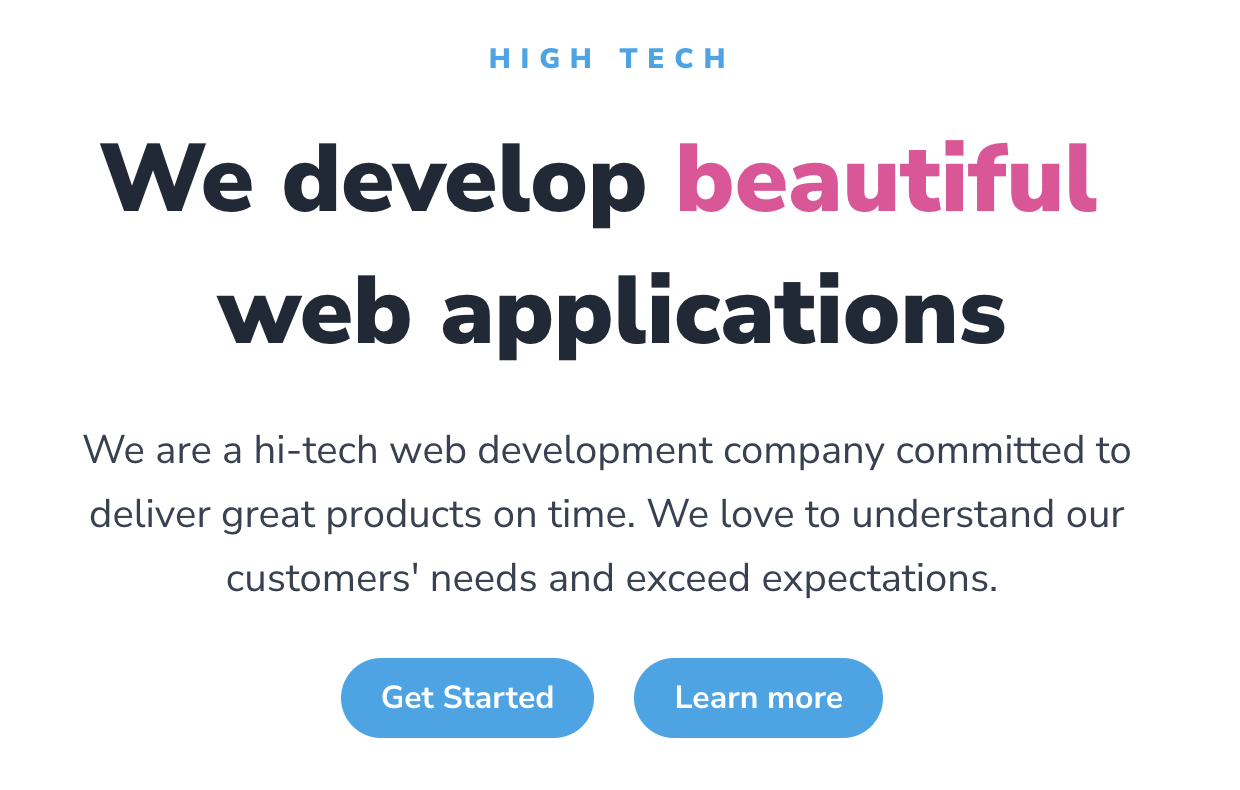
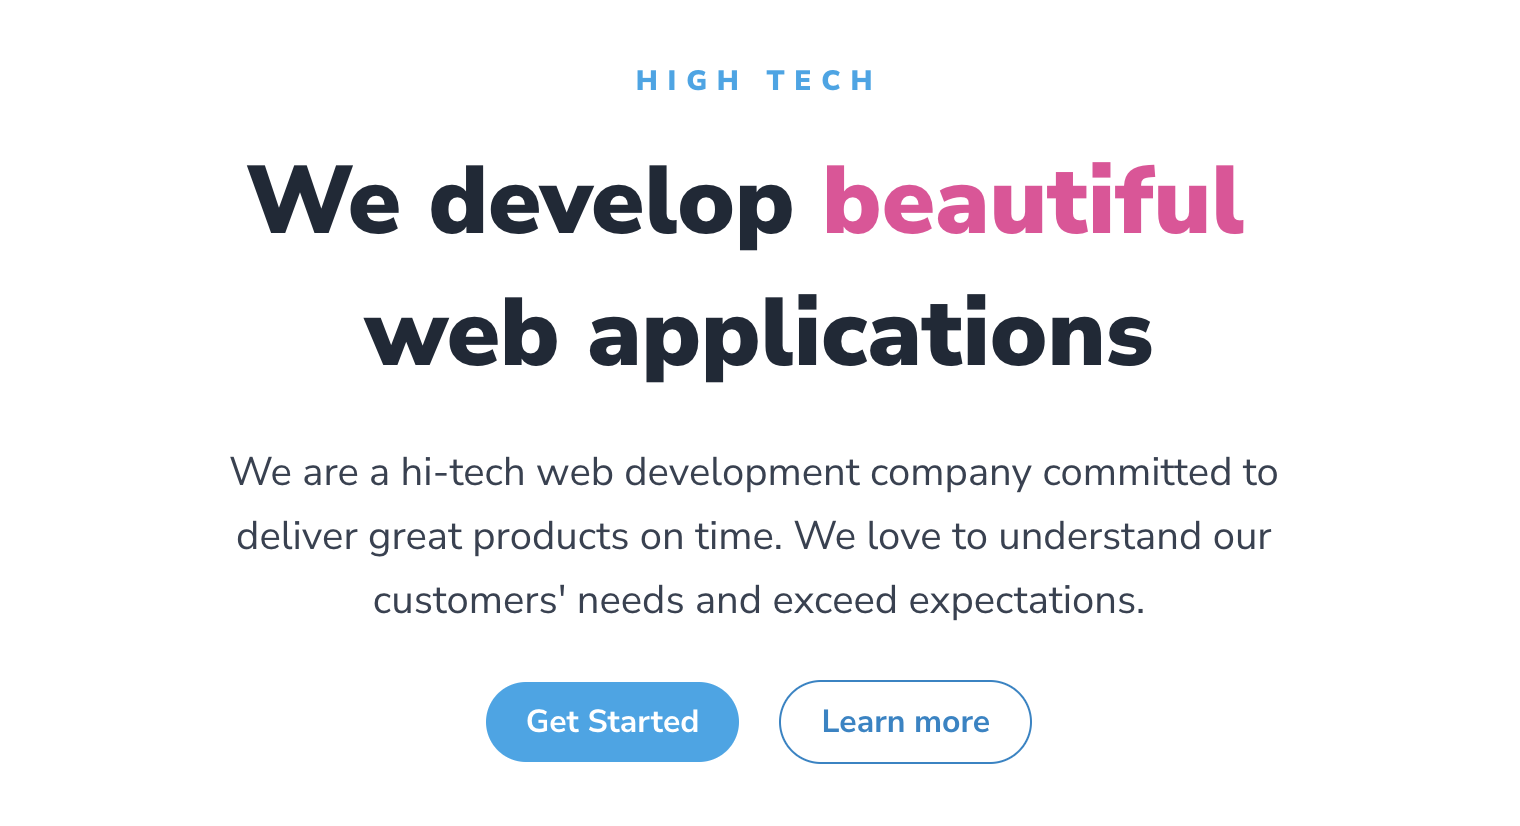
Added some stories.

diff --git a/react-bricks/bricks/react-bricks-ui/heroSections/Hero Unit/HeroUnit.tsx b/react-bricks/bricks/react-bricks-ui/heroSections/Hero Unit/HeroUnit.tsx
@@ -10,7 +10,12 @@ import {
   paddingBordersSideGroup,
 } from '../../LayoutSideProps'
 import blockNames from '../../blockNames'
-import { buttonColors, gradients, highlightTextColors, textColors } from '../../colors'
+import {
+  buttonColors,
+  gradients,
+  highlightTextColors,
+  textColors,
+} from '../../colors'
 import Container from '../../shared/components/Container'
 import Section from '../../shared/components/Section'
 
@@ -35,7 +40,9 @@ const HeroUnit: types.Brick<HeroUnitProps> = ({
   const titleColor = textColors.GRAY_800
   const textColor = textColors.GRAY_700
   const titleStyle =
-    textGradient !== gradients.NONE.value ? { WebkitTextFillColor: 'transparent' } : {}
+    textGradient !== gradients.NONE.value
+      ? { WebkitTextFillColor: 'transparent' }
+      : {}
 
   return (
     <Section
@@ -53,7 +60,10 @@ const HeroUnit: types.Brick<HeroUnitProps> = ({
           />
 
           <div
-            className={classNames(titleColor, gradients[textGradient]?.className)}
+            className={classNames(
+              titleColor,
+              gradients[textGradient]?.className
+            )}
             style={titleStyle}
           >
             <RichText
@@ -92,7 +102,10 @@ const HeroUnit: types.Brick<HeroUnitProps> = ({
             )}
             placeholder="Type a text..."
             propName="text"
-            allowedFeatures={[types.RichTextFeatures.Bold, types.RichTextFeatures.Link]}
+            allowedFeatures={[
+              types.RichTextFeatures.Bold,
+              types.RichTextFeatures.Link,
+            ]}
           />
           <Repeater
             propName="buttons"
@@ -126,20 +139,20 @@ HeroUnit.schema = {
     highlightTextColor: highlightTextColors.PINK.value,
     title: [
       {
-        type: "paragraph",
+        type: 'paragraph',
         children: [
           {
-            text: "We develop "
+            text: 'We develop ',
           },
           {
-            text: "beautiful",
-            highlight: true
+            text: 'beautiful',
+            highlight: true,
           },
           {
-            text: " web applications"
-          }
-        ]
-      }
+            text: ' web applications',
+          },
+        ],
+      },
     ],
     text: "We are a hi-tech web development company committed to deliver great products on time. We love to understand our customers' needs and exceed expectations.",
     badge: [
@@ -150,19 +163,21 @@ HeroUnit.schema = {
     ],
     buttons: [
       {
+        type: 'link',
         text: 'Get Started',
         href: '',
         isTargetBlank: false,
         buttonColor: buttonColors.SKY.value,
-        type: 'solid',
+        variant: 'solid',
         padding: 'normal',
       },
       {
+        type: 'link',
         text: 'Learn more',
         href: '',
         isTargetBlank: false,
         buttonColor: buttonColors.SKY.value,
-        type: 'outline',
+        variant: 'outline',
         padding: 'normal',
       },
     ],
@@ -206,6 +221,61 @@ HeroUnit.schema = {
     },
     backgroundWithImageBgSideGroup,
     paddingBordersSideGroup,
+  ],
+  stories: [
+    {
+      id: 'gradient-hero-unit',
+      name: 'Gradient Hero Unit',
+      previewImageUrl: `/bricks-preview-images/gradient-hero-unit.png`,
+      showAsBrick: true,
+      props: {
+        ...sectionDefaults,
+        size: 'large',
+        paddingTop: '12',
+        paddingBottom: '12',
+        textGradient: gradients.DAWN.value,
+        highlightTextColor: highlightTextColors.PINK.value,
+        badge: [],
+        title: "Let's make content editing fun, again!",
+        text: 'Gray forms are a thing of the past. Let your editors enjoy visual editing over your React components!',
+        buttons: [
+          {
+            type: 'link',
+            text: 'Start now!',
+            href: '',
+            isTargetBlank: false,
+            buttonColor: buttonColors.VIOLET.value,
+            variant: 'solid',
+            padding: 'normal',
+          },
+          {
+            type: 'link',
+            text: 'Watch the video',
+            href: '',
+            isTargetBlank: false,
+            buttonColor: buttonColors.VIOLET.value,
+            variant: 'outline',
+            padding: 'normal',
+          },
+        ],
+        backgroundImage: {
+          fallbackSrc:
+            'https://images.reactbricks.com/original/b438575d-f0e2-4f5d-94a7-bb30fb238962.png',
+          fallbackSrcSet:
+            'https://images.reactbricks.com/src_set/b438575d-f0e2-4f5d-94a7-bb30fb238962-1600.png 1600w,\nhttps://images.reactbricks.com/src_set/b438575d-f0e2-4f5d-94a7-bb30fb238962-1200.png 1200w,\nhttps://images.reactbricks.com/src_set/b438575d-f0e2-4f5d-94a7-bb30fb238962-800.png 800w,\nhttps://images.reactbricks.com/src_set/b438575d-f0e2-4f5d-94a7-bb30fb238962-400.png 400w,\nhttps://images.reactbricks.com/src_set/b438575d-f0e2-4f5d-94a7-bb30fb238962-200.png 200w',
+          fallbackType: 'image/png',
+          src: 'https://images.reactbricks.com/original/b438575d-f0e2-4f5d-94a7-bb30fb238962.webp',
+          placeholderSrc:
+            'https://images.reactbricks.com/placeholder/b438575d-f0e2-4f5d-94a7-bb30fb238962.jpg',
+          srcSet:
+            'https://images.reactbricks.com/src_set/b438575d-f0e2-4f5d-94a7-bb30fb238962-1600.webp 1600w,\nhttps://images.reactbricks.com/src_set/b438575d-f0e2-4f5d-94a7-bb30fb238962-1200.webp 1200w,\nhttps://images.reactbricks.com/src_set/b438575d-f0e2-4f5d-94a7-bb30fb238962-800.webp 800w,\nhttps://images.reactbricks.com/src_set/b438575d-f0e2-4f5d-94a7-bb30fb238962-400.webp 400w,\nhttps://images.reactbricks.com/src_set/b438575d-f0e2-4f5d-94a7-bb30fb238962-200.webp 200w',
+          width: 2000,
+          height: 1000,
+          alt: 'backgroundImage',
+          seoName: '',
+        },
+      },
+    },
   ],
 }
 

diff --git a/react-bricks/bricks/react-bricks-ui/layout/Header.tsx b/react-bricks/bricks/react-bricks-ui/layout/Header.tsx
@@ -14,6 +14,7 @@ import {
   backgroundColorsEditProps,
   borderBottomEditProp,
   LayoutProps,
+  sectionDefaults,
 } from '../LayoutSideProps'
 import Section from '../shared/components/Section'
 import useOnClickOutside from './useClickOutside'
@@ -188,6 +189,46 @@ Header.schema = {
       },
     ],
   }),
+  stories: [
+    {
+      id: 'header-dark',
+      name: 'Header dark',
+      previewImageUrl: `/bricks-preview-images/header-dark.png`,
+      showAsBrick: true,
+      props: {
+        ...sectionDefaults,
+        borderBottom: 'none',
+        backgroundColor: bgColors.DARK_GRAY.value,
+        menuItems: [
+          {
+            linkPath: '/docs',
+            linkText: 'Docs',
+          },
+          {
+            linkPath: '/contacts',
+            linkText: 'Contacts',
+          },
+        ],
+        logo: {
+          src: 'https://images.reactbricks.com/original/881feb54-54af-46d5-8825-31e22ccbac25.webp',
+          placeholderSrc:
+            'https://images.reactbricks.com/placeholder/881feb54-54af-46d5-8825-31e22ccbac25.jpg',
+          srcSet:
+            'https://images.reactbricks.com/src_set/881feb54-54af-46d5-8825-31e22ccbac25-600.webp 600w,\nhttps://images.reactbricks.com/src_set/881feb54-54af-46d5-8825-31e22ccbac25-450.webp 450w,\nhttps://images.reactbricks.com/src_set/881feb54-54af-46d5-8825-31e22ccbac25-300.webp 300w,\nhttps://images.reactbricks.com/src_set/881feb54-54af-46d5-8825-31e22ccbac25-150.webp 150w,\nhttps://images.reactbricks.com/src_set/881feb54-54af-46d5-8825-31e22ccbac25-75.webp 75w',
+          width: 5314,
+          height: 1181,
+          alt: 'React Bricks',
+          seoName: 'react-bricks',
+          fallbackSrc:
+            'https://images.reactbricks.com/original/881feb54-54af-46d5-8825-31e22ccbac25.png',
+          fallbackSrcSet:
+            'https://images.reactbricks.com/src_set/881feb54-54af-46d5-8825-31e22ccbac25-600.png 600w,\nhttps://images.reactbricks.com/src_set/881feb54-54af-46d5-8825-31e22ccbac25-450.png 450w,\nhttps://images.reactbricks.com/src_set/881feb54-54af-46d5-8825-31e22ccbac25-300.png 300w,\nhttps://images.reactbricks.com/src_set/881feb54-54af-46d5-8825-31e22ccbac25-150.png 150w,\nhttps://images.reactbricks.com/src_set/881feb54-54af-46d5-8825-31e22ccbac25-75.png 75w',
+          fallbackType: 'image/png',
+        },
+        buttons: [],
+      },
+    },
+  ],
 }
 
 export default Header

diff --git a/react-bricks/bricks/react-bricks-ui/team/Team/Team.tsx b/react-bricks/bricks/react-bricks-ui/team/Team/Team.tsx
@@ -75,11 +75,11 @@ Team.schema = {
         picture: avatars.AVATAR_MALE,
       },
       {
-        memberName: 'Catherine White',
+        memberName: 'Catherine Smith',
         jobTitle: 'Backend Developer',
-        twitter: 'catherine_white',
-        linkedin: 'catherine_white',
-        github: 'catherine_white',
+        twitter: 'catherine_smith',
+        linkedin: 'catherine_smith',
+        github: 'catherine_smith',
         picture: avatars.AVATAR_FEMALE,
       },
     ],

diff --git a/react-bricks/bricks/react-bricks-ui/team/Team2Cols/Team2Cols.tsx b/react-bricks/bricks/react-bricks-ui/team/Team2Cols/Team2Cols.tsx
@@ -74,11 +74,11 @@ Team2Cols.schema = {
         picture: avatars.AVATAR_MALE,
       },
       {
-        name: 'Catherine White',
+        name: 'Catherine Smith',
         jobTitle: 'Backend Developer',
-        twitter: 'catherine_white',
-        linkedin: 'catherine_white',
-        github: 'catherine_white',
+        twitter: 'catherine_smith',
+        linkedin: 'catherine_smith',
+        github: 'catherine_smith',
         picture: avatars.AVATAR_FEMALE,
       },
     ],
